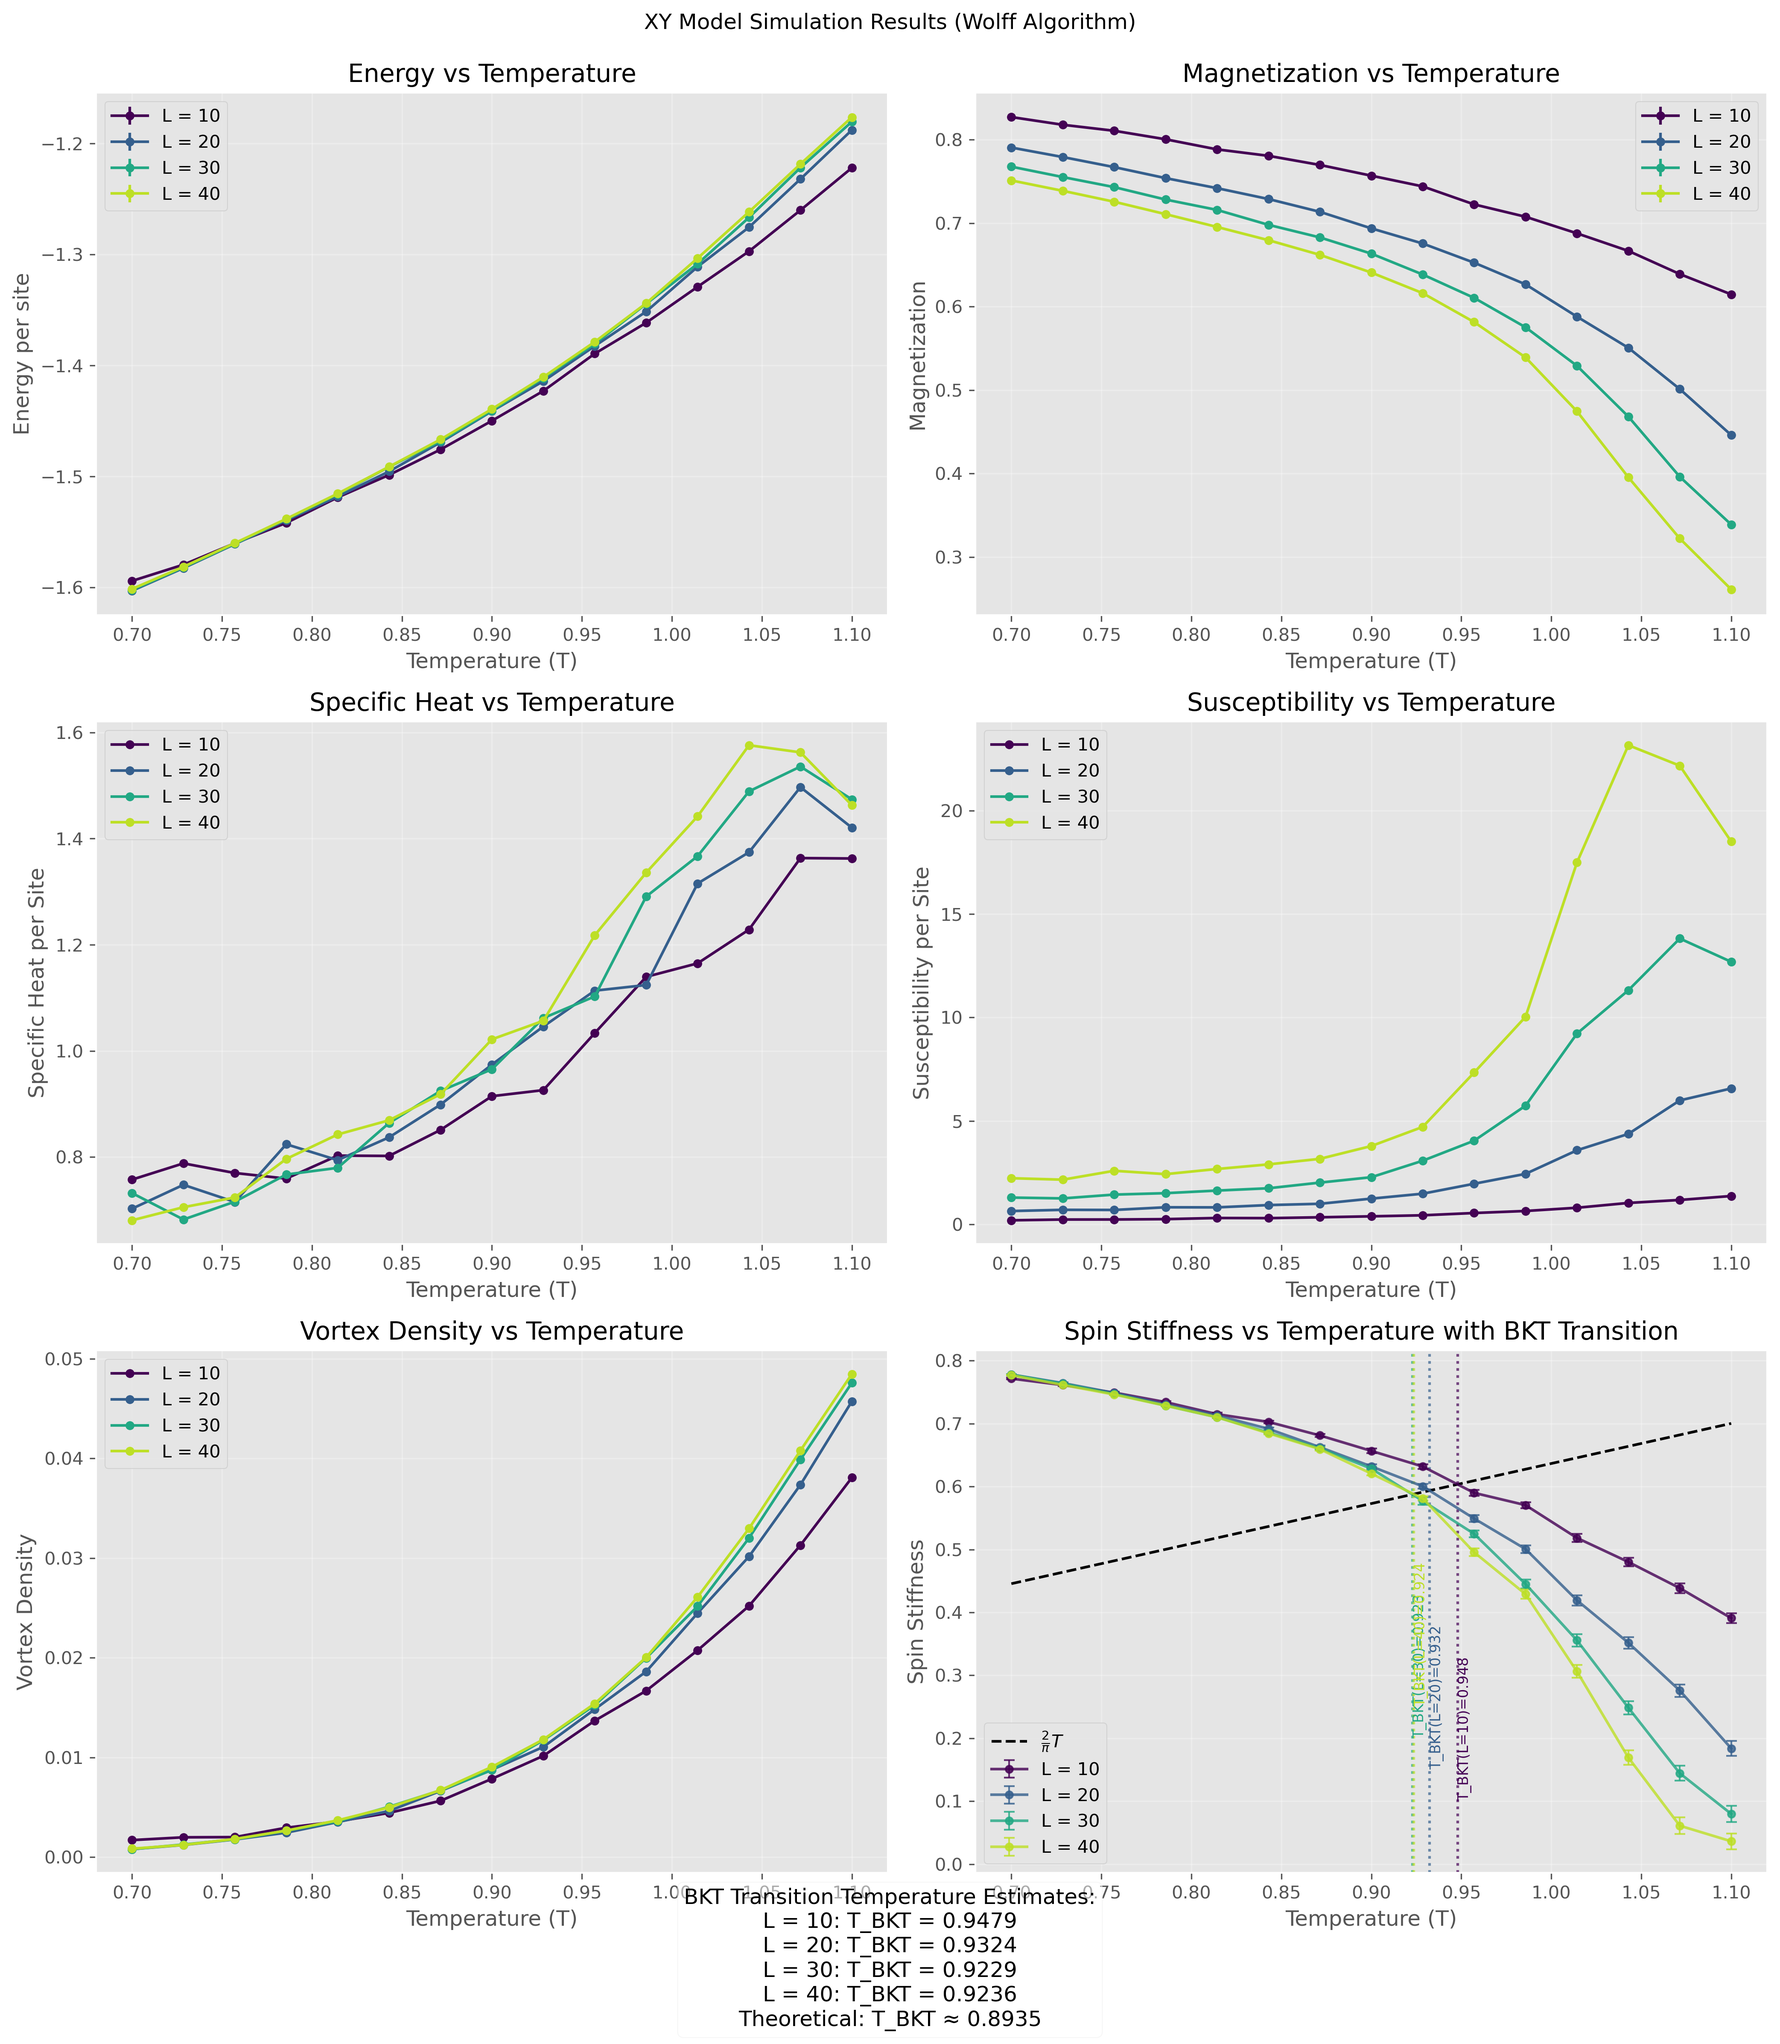
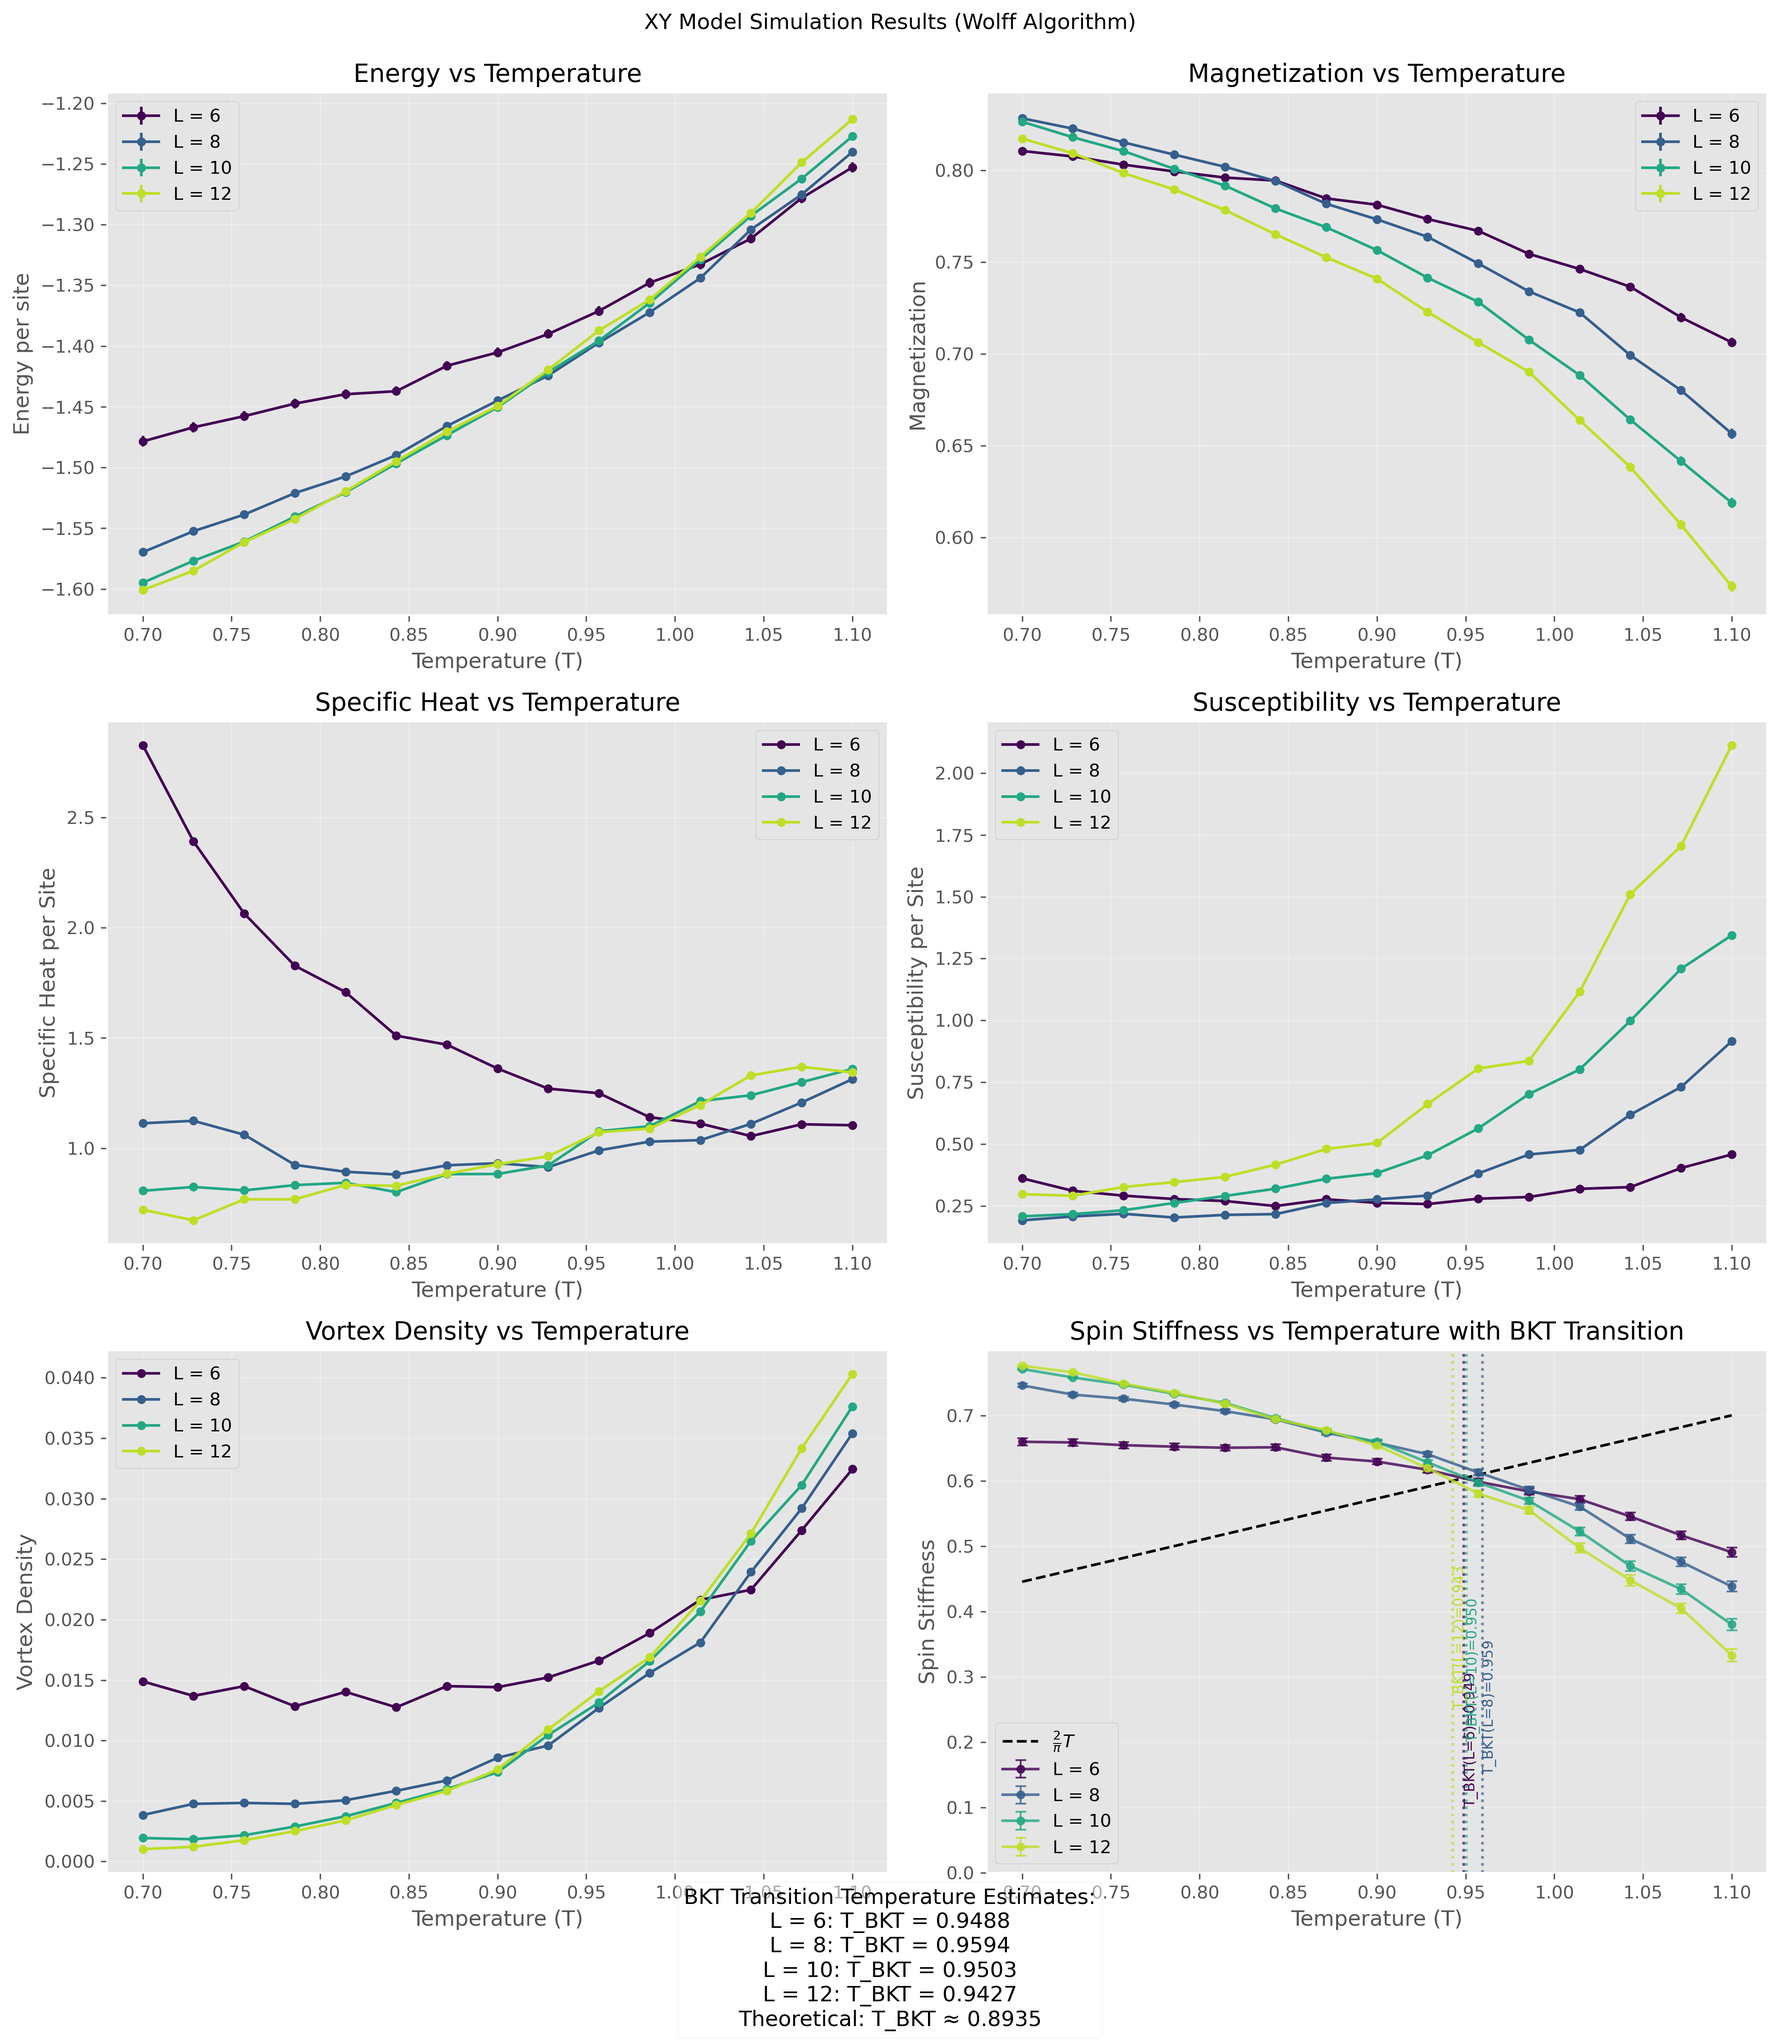
remove redundant visualization code

diff --git a/Ben-Francesco-parallel-JIT/xy_model.py b/Ben-Francesco-parallel-JIT/xy_model.py
@@ -649,13 +649,12 @@ def run_single_temperature(params: Tuple[SimulationParameters, float, int, str])
         'vorticity': vorticity_avg,
         'stiffness': stiffness_avg,
         'stiffness_error': stiffness_err,
-        'model_state': model if temp_idx % (sim_params.num_points // min(4, sim_params.num_points) + 1) == 0 else None
     }
     
     return temperature, results
 
 
-def simulate_lattice(sim_params: SimulationParameters, algorithm: str) -> Tuple[SimulationResults, List[Tuple[float, XYModel]]]:
+def simulate_lattice(sim_params: SimulationParameters, algorithm: str) -> SimulationResults:
     """
     Simulate the XY model for various temperatures using the specified algorithm.
     Uses corrected stiffness calculation via run_single_temperature.
@@ -669,8 +668,7 @@ def simulate_lattice(sim_params: SimulationParameters, algorithm: str) -> Tuple[
         
     Returns:
     --------
-    tuple
-        (SimulationResults, sample_states)
+    SimulationResults
     """
     L = sim_params.L
     temperatures = np.linspace(sim_params.T_min, sim_params.T_max, sim_params.num_points)
@@ -689,9 +687,6 @@ def simulate_lattice(sim_params: SimulationParameters, algorithm: str) -> Tuple[
     vortices = np.zeros(sim_params.num_points)
     stiffnesses = np.zeros(sim_params.num_points)
     stiffness_errors = np.zeros(sim_params.num_points)
-    
-    # Sample states
-    sample_states = []
     
     start_time = time.time()
     
@@ -718,9 +713,6 @@ def simulate_lattice(sim_params: SimulationParameters, algorithm: str) -> Tuple[
         stiffnesses[i] = result_data['stiffness']
         stiffness_errors[i] = result_data['stiffness_error']
 
-        if result_data['model_state'] is not None:
-            sample_states.append((T, result_data['model_state']))
-    
     elapsed = time.time() - start_time
     logger.info(f"Simulation for L={L} ({algorithm}) completed in {elapsed:.1f} seconds")
     
@@ -755,7 +747,7 @@ def simulate_lattice(sim_params: SimulationParameters, algorithm: str) -> Tuple[
         T_BKT=T_BKT
     )
     
-    return sim_results, sample_states
+    return sim_results
 
 # ============================================================================
 # Visualization and Main Script - NO CHANGES NEEDED FOR PLOTS
@@ -925,74 +917,6 @@ def visualize_plots(results_dict: Dict[int, SimulationResults], output_dir: str,
     plt.close(fig)
 
 
-def visualize_spins(samples_dict: Dict[int, List[Tuple[float, XYModel]]], output_dir: str, algorithm: str) -> None:
-    """
-    Visualize spin configurations for different lattice sizes and temperatures.
-    
-    Parameters:
-    -----------
-    samples_dict : Dict[int, List[Tuple[float, XYModel]]]
-        Dictionary mapping lattice sizes to lists of (temperature, model) tuples
-    output_dir : str
-        Directory to save plot files
-    algorithm : str
-        Algorithm name for filename
-    """
-    for L, sample_states in samples_dict.items():
-        if not sample_states:
-            continue
-            
-        num_samples = len(sample_states)
-        fig, axes = plt.subplots(1, num_samples, figsize=(5*num_samples, 5), dpi=150, squeeze=False) # Ensure axes is 2D
-
-        for idx, (temp, model) in enumerate(sample_states):
-            ax = axes[0, idx]
-            # Create mesh grid for the arrows
-            x, y = np.meshgrid(np.arange(0, L), np.arange(0, L))
-            
-            # Get the spin components
-            u = np.cos(model.spins)
-            v = np.sin(model.spins)
-            
-            # Plot the arrows
-            ax.quiver(
-                x, y, u, v,
-                pivot='mid',                # Arrows centered on grid points
-                scale=25,                   # Adjust based on arrow length
-                scale_units='width',        # Arrow length relative to figure width
-                width=0.005,                # Thickness of arrow shaft
-                headwidth=4,                # Width of arrowhead
-                headlength=5,               # Length of arrowhead
-                headaxislength=4,           # How far arrowhead extends back
-                color='black'               # Color of arrows
-            )
-            
-            # Calculate and overlay vortices
-            vortices = model.compute_vorticity()
-            for i_lat in range(L):
-                for j_lat in range(L):
-                    vort_val = vortices[i_lat, j_lat]
-                    if vort_val > 0.5: # Check for +1 vortex
-                        ax.plot(j_lat, i_lat, 'ro', markersize=4, alpha=0.7)  # Positive vortex
-                    elif vort_val < -0.5: # Check for -1 vortex
-                        ax.plot(j_lat, i_lat, 'bo', markersize=4, alpha=0.7)  # Negative vortex
-
-            ax.set_title(f'L = {L}, T = {temp:.4f}')
-            ax.set_xlim(-1, L)
-            ax.set_ylim(-1, L)
-            ax.set_aspect('equal')
-            ax.set_xticks([])
-            ax.set_yticks([])
-        
-        plt.tight_layout()
-        spin_filename = f'xy_model_spins_L{L}_{algorithm}.png'
-        try:
-            plt.savefig(os.path.join(output_dir, spin_filename), dpi=300)
-        except Exception as e:
-            logger.error(f"Failed to save spin visualization {spin_filename}: {e}")
-        plt.close(fig)
-
-
 def create_output_dir(output_dir: str) -> str:
     """Create output directory if it doesn't exist."""
     if not os.path.exists(output_dir):
@@ -1033,7 +957,7 @@ def parse_arguments() -> argparse.Namespace:
         help="Base number of Monte Carlo sweeps for thermalization (scales with L)"
     )
     parser.add_argument(
-        "--lattice-sizes", type=int, nargs="+", default=[10, 20, 30, 40],
+        "--lattice-sizes", type=int, nargs="+", default=[6,8,10,12],#[10, 20, 30, 40, 50],
         help="List of lattice sizes to simulate"
     )
     parser.add_argument(
@@ -1129,7 +1053,6 @@ def main() -> None:
     logger.info(f"Using algorithm: {args.algorithm}")
     
     results_dict = {}
-    samples_dict = {}
     
     # --- Simulation Loop --- 
     for L in args.lattice_sizes:
@@ -1157,14 +1080,12 @@ def main() -> None:
             # Note: sim_params.temperatures will be set in simulate_lattice
         )
 
-        results, sample_states = simulate_lattice(sim_params, args.algorithm)
+        results = simulate_lattice(sim_params, args.algorithm)
 
         results_dict[L] = results
-        samples_dict[L] = sample_states
     
     # --- Visualization --- 
     visualize_plots(results_dict, output_dir, args.algorithm)
-    visualize_spins(samples_dict, output_dir, args.algorithm)
 
     # --- Summary --- 
     # Extract L and T_BKT for finite-size scaling
